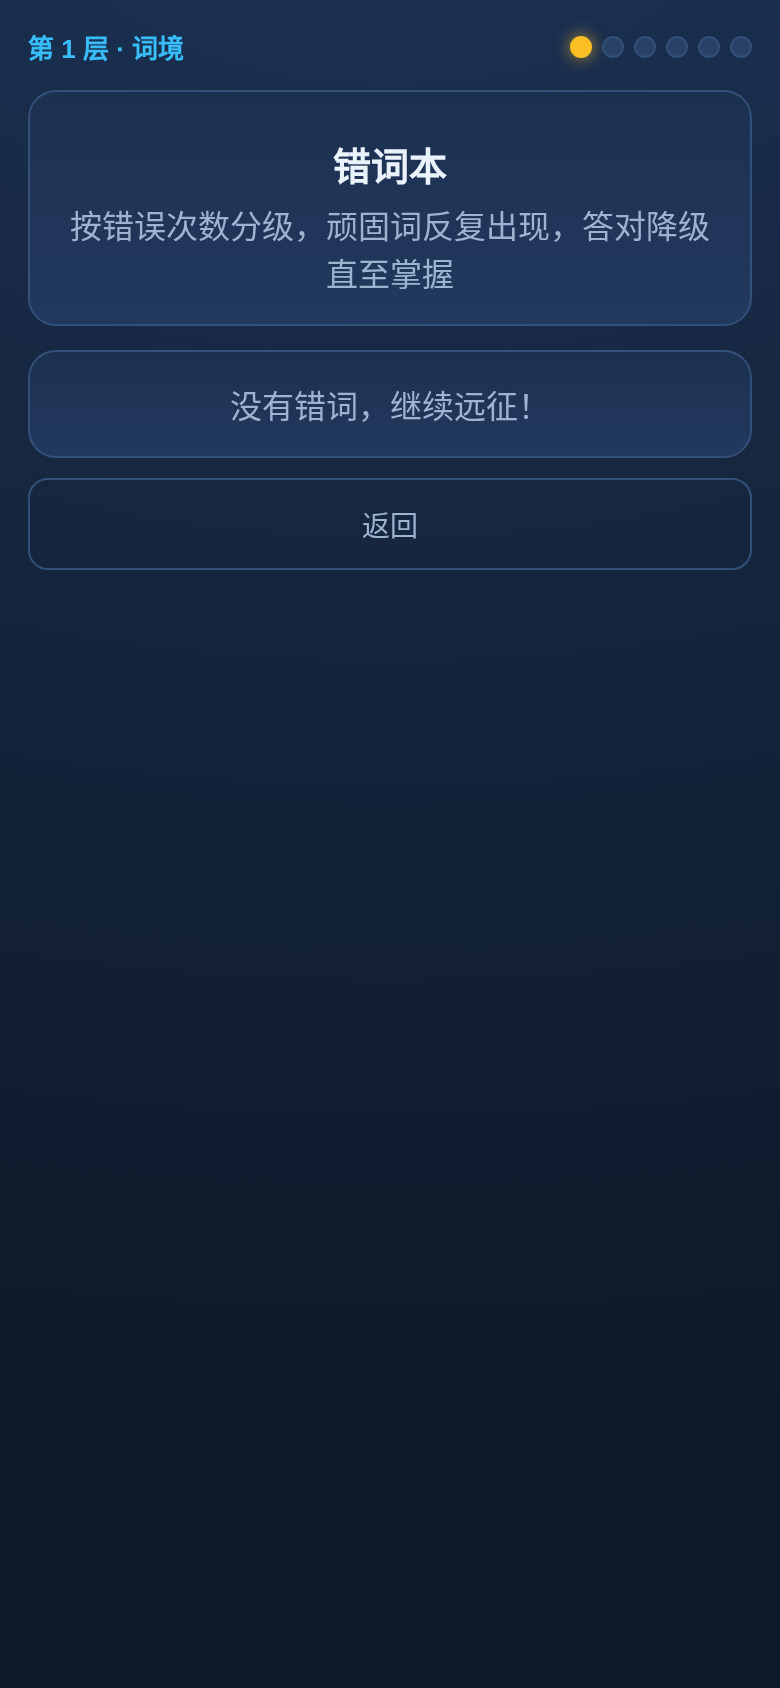
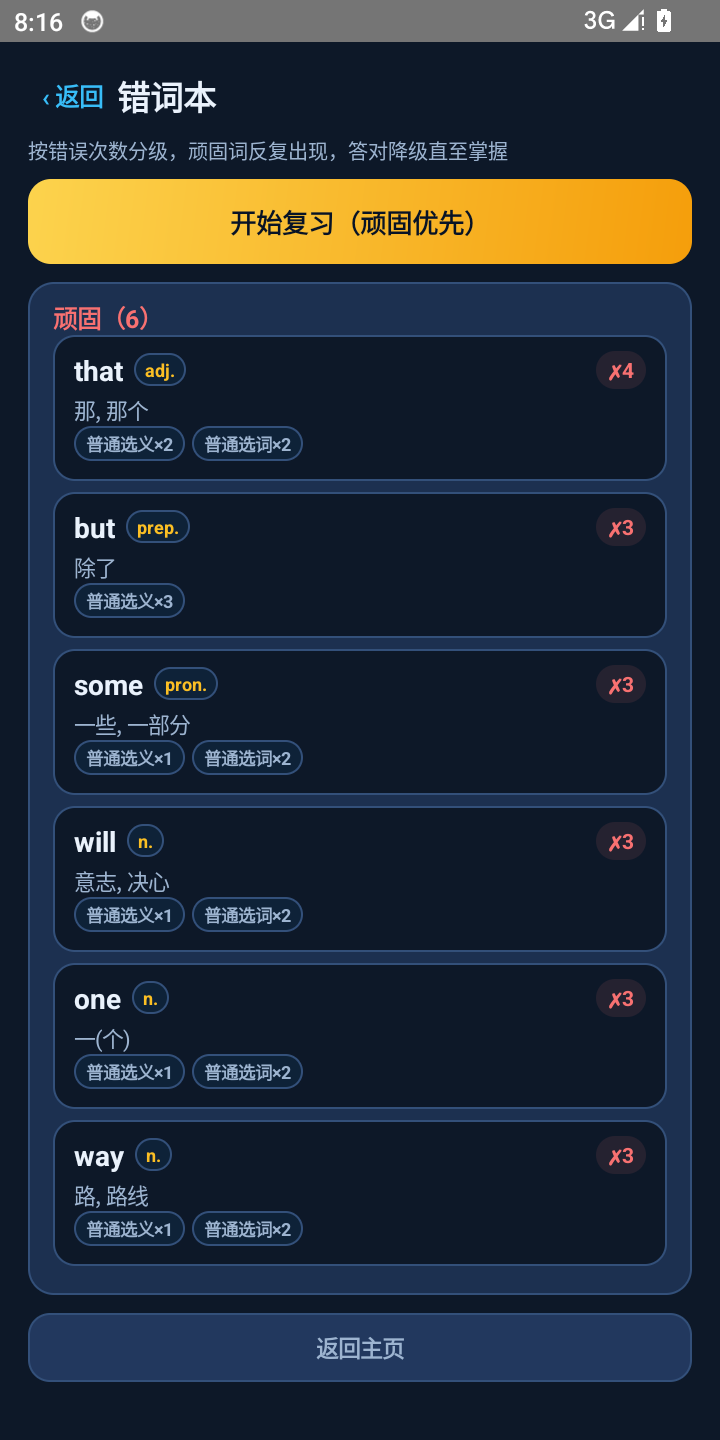
docs: README截图替换为V16.5原生APK真实运行界面（11张720x1440，同名覆盖旧Web原型图）

diff --git a/README.md b/README.md
@@ -1,56 +1,183 @@
-# 单词地下城 Word Dungeon
+# 单词地下城 · Word Dungeon
 
-应试单词 · 战斗 Roguelike。认出单词就是攻击，背错一次就会挨打；错词按错误次数分级，顽固词反复出现直到掌握。
+> 应试单词 · 战斗 Roguelike。认出一个单词就是一次攻击，答错一次就会挨打；错词按错误次数分级，顽固词会反复出现，直到你真正掌握。
 
-## 玩法
+一个可直接安装运行的 **Android 原生单机背词应用**：内置 8920 个单词、5 本考试词书，把答题的正误与快慢转化为直观的战斗攻防、连击与成长反馈，并通过错词分级、间隔重复和快刷新词调度，让复习节奏贴合记忆规律。全程本地运行，**无账号、无广告、不连服务器、不采集数据**，无网络环境也能完整使用。
 
-- 答对单词攻击敌人，答得越快伤害越高，连击还会再加成；连击 ≥5 进入心流。
-- 四种题型：看英文选中文释义（55%）、看中文选英文（15%）、拼写（10%）、快速判断（20%）。
-- 题目标注词性（n./v./adj.…），同形近形词辨析。
-- 答错 / 超时敌人反击、连击清零，错词进错词本；错过的词再答对触发复仇（1.5 起，上限 2.0）。
-- 错词分级：L3 顽固（≥3 错，权重 ×3）/ L2 易错（2 错，×2）/ L1 生疏（1 错，×1），战斗内加权反复出现，复习按顽固→易错→生疏。
+- 纯 Java 原生开发，界面全部用 Canvas 自绘，不依赖第三方 UI / 游戏引擎
+- 进程内本地路由承载业务逻辑，没有 HTTP / Socket 网络服务
+- SQLite 本地存储，音效由 AudioTrack 实时合成，零外部音频资源
 
-## 工程结构
+## 界面速览
 
-```
-word-dungeon/
-├── word-dungeon-demo.html      # 单文件可玩原型（离线，浏览器直接打开）
-├── GDD-单词地下城.md           # 游戏设计文档（本地真值）
-├── gdd-feishu.xml              # 飞书文档 XML
-├── design-contract.json        # 设计契约（规则/参数/测试，可校验）
-├── server/                     # 后端（主要代码）
-│   ├── main.py                 # FastAPI：词库、组卷、结算、错词本、同步、统计
-│   ├── core.py                 # 核心逻辑：四题型、干扰项、分级、间隔重复、伤害
-│   └── data/                   # 词库 words.json（开源词库映射）+ 易混组
-├── www/                        # 客户端静态资源（Capacitor webDir）
-├── android/                    # Capacitor 生成的 Android 工程
-├── capacitor.config.json
-└── 单词地下城-debug.apk         # 已构建的 Android 安装包
-```
+<table>
+  <tr>
+    <td align="center"><b>主页</b><br>模式切换 · 词书难度 · 今日复习</td>
+    <td align="center"><b>远征战斗</b><br>敌人血条 · 倒计时 · 题型阶梯</td>
+  </tr>
+  <tr>
+    <td align="center"><img src="docs/agent-flow/screenshots/01-home.png" width="240"></td>
+    <td align="center"><img src="docs/agent-flow/screenshots/07-battle-campaign.png" width="240"></td>
+  </tr>
+  <tr>
+    <td align="center"><b>快刷战斗</b><br>词频加权 · 高频集中刷词</td>
+    <td align="center"><b>结算页</b><br>正确率 · 连击 · 新学词与错词</td>
+  </tr>
+  <tr>
+    <td align="center"><img src="docs/agent-flow/screenshots/06-battle-quick.png" width="240"></td>
+    <td align="center"><img src="docs/agent-flow/screenshots/09-result.png" width="240"></td>
+  </tr>
+  <tr>
+    <td align="center"><b>词境商店</b><br>词魂兑换补给与词典卡</td>
+    <td align="center"><b>复习之泉</b><br>回血并复盘本层错词</td>
+  </tr>
+  <tr>
+    <td align="center"><img src="docs/agent-flow/screenshots/11-shop.png" width="240"></td>
+    <td align="center"><img src="docs/agent-flow/screenshots/10-spring.png" width="240"></td>
+  </tr>
+  <tr>
+    <td align="center"><b>翻牌抽卡</b><br>稀有度保底 · 史诗压轴</td>
+    <td align="center"><b>错词本</b><br>顽固 / 易错 / 生疏分级</td>
+  </tr>
+  <tr>
+    <td align="center"><img src="docs/agent-flow/screenshots/08-choice-flip.png" width="240"></td>
+    <td align="center"><img src="docs/agent-flow/screenshots/03-wrongbook.png" width="240"></td>
+  </tr>
+</table>
 
-## 运行后端
+## 1. 快速开始
+
+环境要求：**JDK 17** 与 **Android SDK**（compileSdk / targetSdk 34、build-tools 34.0.0）；最低支持 Android 5.1（minSdk 22）。工程为纯原生 Gradle 项目，无需 Node、Capacitor 或任何后端服务。
 
 ```bash
-cd server
-pip install -r requirements.txt
-uvicorn main:app --host 0.0.0.0 --port 8000
-# 接口文档：http://localhost:8000/docs
-```
+# 1) 克隆仓库并进入 Android 工程
+git clone git@github.com:Guzifeng0613/word-chanllenge.git
+cd word-chanllenge/android
 
-主要接口：`POST /auth/guest`、`GET /bank/tier`、`POST /quiz/draw`、`POST /quiz/answer`、`GET /wrongbook`、`POST /wrongbook/review`、`POST /progress/sync`、`GET /stats/daily`。
-
-## 重新打包 APK
-
-> 需 JDK 17 与 Android SDK（platform-34、build-tools 34.0.0）。
-
-```bash
-# 更新客户端资源后
-npx cap sync android
-cd android
+# 2) 构建调试版 APK
 ./gradlew assembleDebug
-# 产物：android/app/build/outputs/apk/debug/app-debug.apk
+
+# 3) 构建发布版 APK
+./gradlew assembleRelease
+
+# 4) 直接安装到已连接的设备或模拟器
+./gradlew installDebug
 ```
 
-## 词库（V4 方向）
+构建产物路径：
 
-开源词库 COCA 2 万高频 + 四六级大纲 + CEFR 分级；每词主释义取常用义（前 2 高频义位），干扰项从同词性、近形 / 近义族生成。当前原型为 61 词示例词库（tier 1/2/3）。
+```text
+app/build/outputs/apk/debug/app-debug.apk        # 调试版
+app/build/outputs/apk/release/app-release.apk    # 发布版
+```
+
+可用 aapt2 核验安装包版本号：
+
+```bash
+aapt2 dump badging app/build/outputs/apk/release/app-release.apk | grep versionName
+```
+
+Windows 环境下把 `./gradlew` 替换为 `gradlew.bat` 即可，命令与参数完全一致。
+
+## 2. 三种玩法模式
+
+| 模式 | 玩法 | 适合场景 |
+| --- | --- | --- |
+| **远征** | 逐层闯关的地下城，每层含普通敌人、精英怪与守层 Boss，拼写题比例与敌人强度随层数提升 | 系统学习主线，从新词到通关完整闭环 |
+| **无尽** | 无层数上限的深渊，敌人生命每层 +15%、攻击每层 +10%，定期轮换 Boss 模板 | 已有词汇量后的持续挑战与冲榜 |
+| **快刷** | 分普通 / 进阶 / 地狱三档，按词频加权抽取高频词，普通档启用新词调度状态机 | 考前集中、快速过词 |
+
+## 3. 答题与记忆引擎
+
+**四种题型**在单词毕业前沿阶梯推进：快速判断（judge）→ 看英文选中文（en2cn）→ 看中文选英文（cn2en）→ 单词拼写（spell），毕业后在复习题型中轮换。选择题的三个干扰项优先取同词性、拼写或含义相近的单词，并结合 18 组易混词数据构造，避免随机干扰项缺乏迷惑性。
+
+- **错词三级**：答错 1 次为生疏、2 次为易错、3 次及以上为顽固，出题权重逐级提高；本局答错的单词间隔若干题后重新插入，及时纠正。
+- **自适应能力值**：取值 1～3，初始 1.5，答对上升、答错下降；自适应难度下约七成题目匹配当前能力，其余向上下拉伸，难度随能力动态变化。
+- **间隔重复**：毕业前走学习阶梯，答错安排 2 / 3 / 5 分钟后的短期到期；毕业后按 `10 分钟 → 1 天 → 3 天 → 7 天 → 16 天 → 30 天` 六级间隔复习，连对晋升、答错回退。
+- **快刷状态机**：普通档新词答错隔 5 题重投，答对按连对次数隔 10 / 15 / 25 题重投，同一词出现满 4 次强制毕业，防止无限循环。
+- **每日复习配额**：默认每天 50 个（可选不限 / 30 / 50 / 80），中断学习后到期单词平滑顺延到次日，避免“到期堰塞湖”；新词与本局错词不占配额。
+
+## 4. 战斗、经济与成长
+
+- **伤害结算**：以基础伤害 10 为起点，依次乘算速度倍率（1.5 / 1.2 / 1.0）、连击倍率（每级 +0.05、上限 2.0）、熟练度、道具与暴击倍率；本局错过的词再次答对触发复仇倍率（1.5 起、上限 2.0）。
+- **心流**：连击达到 5 / 8 / 12 次分别进入更高心流档，提升词魂获取与暴击加成，答错或超时连击清零。
+- **词魂经济**：答题获得词魂，在词境商店购买血药（30）、临时祝福、献祭与词典卡；词典卡目录共 25 张，按普通 50 / 稀有 85 / 史诗 150 分档，抽取带稀有度保底。
+- **祭坛永久祝福**：以精华升级词锋、体魄、引力、先知、复苏、贪婪六项永久能力，重置学习进度后依然保留。
+- **成长体系**：等级经验、四阶称号（词灵使 / 词灵行者 / 词灵领主 / 词灵圣者）、连续打卡火花、15 项成就，称号与火花双满触发“圣者觉醒”彩蛋；每层设复习之泉，回血并复盘本层错词。
+- **反馈**：命中、暴击、受击、击杀、升级、翻牌六种短音效由 AudioTrack 用正弦波加衰减包络实时合成，配合系统震动提供触感，均可在设置中关闭。
+
+## 5. 工程结构
+
+当前发布的 Android 客户端为纯原生实现，35 个 Java 源文件、约 1.4 万行，按包划分职责：
+
+```text
+word-chanllenge/
+└── android/app/src/main/
+    ├── java/com/guzifeng/worddungeon/
+    │   ├── App.java                 # 应用入口、崩溃日志
+    │   ├── MainActivity.java        # 主界面与页面调度
+    │   ├── core/                    # 12 个：词库、出题、记忆、快刷、伤害、敌人、道具目录
+    │   ├── server/
+    │   │   └── BackendRouter.java   # 进程内本地路由（方法调用，非网络服务）
+    │   ├── store/                   # ProgressStore(SQLite)、Positions(界面位置)
+    │   └── ui/                      # 18 个 Canvas 自绘页面与组件
+    ├── assets/data/
+    │   ├── wordbooks.json           # 8920 词 / 5 词书，数据源 ECDICT(MIT)
+    │   └── confuse-groups.json      # 18 组易混词
+    └── res/                         # 主题、图标、网络与文件配置
+```
+
+分层上，界面层只负责展示与收集操作，不直接读写数据库，而是向 `BackendRouter` 发起带路径和参数的请求，由核心逻辑层完成计算、存储层读写后以结构化对象返回；同一套核心逻辑同时服务远征、无尽与快刷三种模式，保证规则口径一致。
+
+## 6. 词库与数据存储
+
+词库随安装包内置，数据源为开源项目 [ECDICT](https://github.com/skywind3000/ECDICT)（MIT 许可证），共 8920 个单词，词条含单词、词性、中文释义、难度、所属词书、词频、柯林斯星级与英英释义等字段。一个单词可同时属于多本词书，因此各词书计数之和大于总词数：
+
+| 词书 | 高考 | 四级 | 六级 | 考研 | 计算机学术 |
+| --- | ---: | ---: | ---: | ---: | ---: |
+| 单词数 | 3674 | 3846 | 5406 | 4801 | 2186 |
+
+学习数据保存在本地 SQLite 数据库 `word_dungeon.db`（当前数据库版本 7），共四张表：
+
+- `users`：等级、经验、能力值、打卡、成就、词魂与精华 / 祭坛扩展信息
+- `progress`：每个单词的学习状态、阶梯序号、到期时间与错词分级
+- `answers`：逐题答题记录，供统计与回顾使用
+- `runs`：对局记录，供模式成绩与图表使用
+
+数据库升级通过版本号触发迁移回调，以新增列、新建表方式平滑升级，已有学习数据不会因版本更新丢失。
+
+## 7. 技术栈与设计取舍
+
+- **纯原生、轻依赖**：仅依赖 AndroidX `appcompat` 与 `coordinatorlayout`，不引入游戏引擎、网络框架或第三方界面库，安装包体积小、启动快。
+- **Canvas 自绘 UI**：所有页面与动效通过原生 Canvas 和官方绘图接口绘制，统一深蓝近黑（约 `#0B1A2E`）的地下城视觉，风格高度一致。
+- **无网络服务**：`BackendRouter` 是进程内的方法路由，代码中不存在 `HttpURLConnection`、Socket 或 NanoHTTPD 等网络栈；网络安全配置仅放行 `localhost`，当前版本不发起任何真实请求。
+- **零音频资产**：音效全部由 AudioTrack 实时合成，短于 300 毫秒并异步播放，不打包任何音频文件。
+
+## 8. 测试与验证
+
+- 每次发布同时产出 release 与 debug 双 APK，并用 aapt2 核验 versionCode / versionName 与预期一致。
+- 核心算法（快刷状态机、间隔晋升、伤害乘算等）通过编译期模拟用例覆盖未错过、首现答错、中途答错与持续答错等多条路径。
+- 在模拟器与真机上对三种模式、四种题型、商店 / 祭坛 / 成就 / 统计 / 设置等模块做完整走查与回归；当前发布版本为 **V16.5（versionCode 117）**。
+- 版本号约定：小改动迭代 +0.1，新增完整系统或大改动进位 +1，完整演进记录见 `CHANGELOG.md`。
+
+## 9. 隐私与权限
+
+- 不要求注册登录，不收集、不上传任何个人信息，运行过程中不向外部服务器发送学习数据。
+- 全部数据仅保存在应用私有目录，由系统沙箱保护，其他应用无法访问。
+- `VIBRATE` 权限仅用于答题触感反馈；`INTERNET` 为早期架构遗留声明，当前版本不发起网络请求，亦不含广告插件或数据统计追踪组件。
+- 卸载应用时系统同步清除程序与全部本地数据；应用内“数据重置”仅清空学习进度，保留精华与祭坛永久祝福。
+
+## 10. 已知边界
+
+1. 纯单机设计，暂无云端同步与多设备进度迁移，卸载或清除应用数据后进度不保留。
+2. 界面为 Canvas 自绘而非系统标准控件，对系统无障碍服务的支持有限。
+3. 词库随 APK 内置（约 1.5 MB），当前不支持应用内在线下载额外词书。
+4. 训练形态面向应试的识别、辨析与拼写，暂不包含口语与听力题型。
+5. 仓库根目录保留了早期 Web / Python 原型阶段的 `server/`、`www/` 与 HTML 演示文件，它们**不参与当前原生 Android 构建**，仅作演进留档；以 `android/` 目录为唯一发布真值。
+
+## 相关文档
+
+- [GDD-单词地下城.md](GDD-单词地下城.md)：游戏设计文档，规则与数值的设计真值
+- [CHANGELOG.md](CHANGELOG.md)：完整版本演进与修复记录
+- [docs/](docs/)：迭代过程、验收报告与界面截图
+- 仓库地址：[github.com/Guzifeng0613/word-chanllenge](https://github.com/Guzifeng0613/word-chanllenge)
